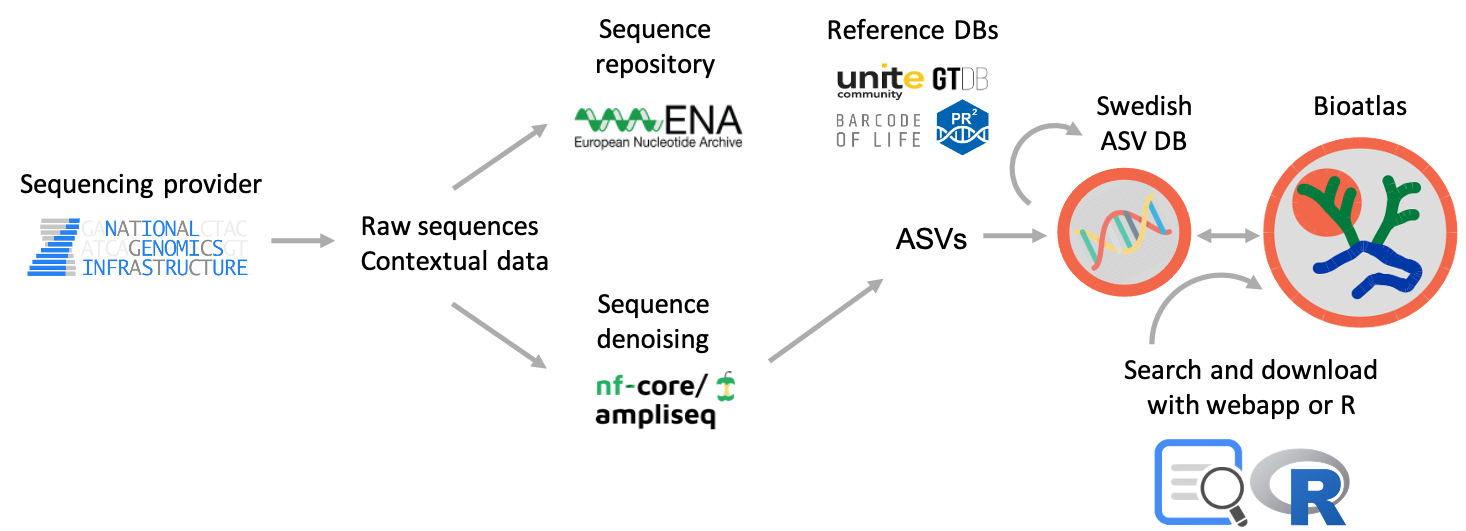
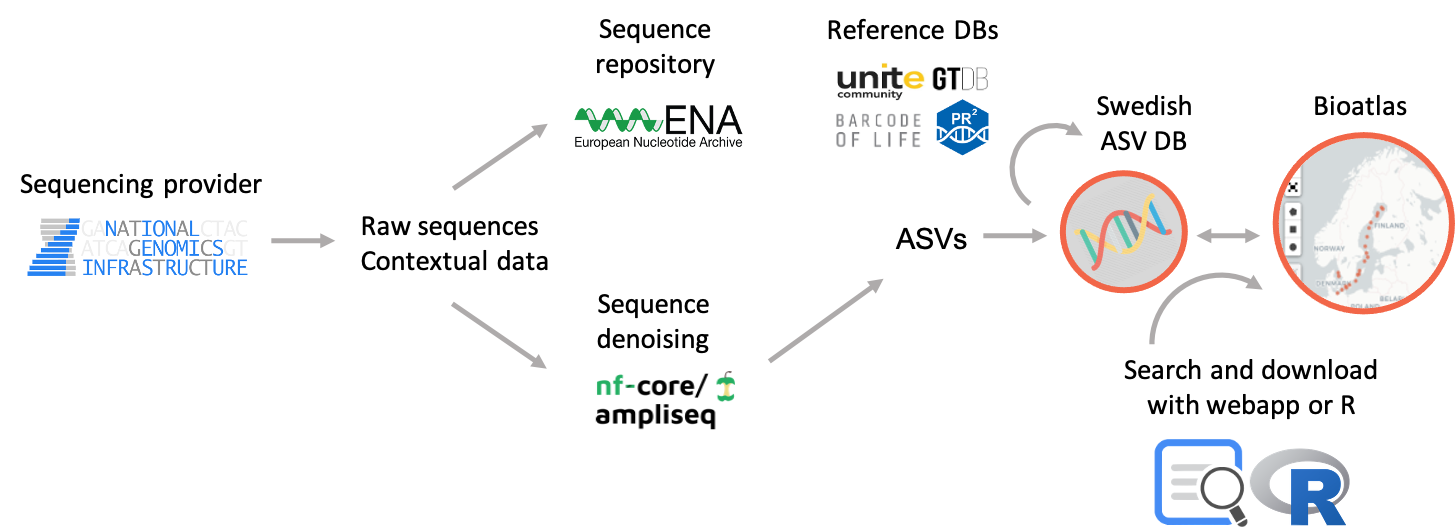
Replace data flow graphic and make responsive

diff --git a/molmod/templates/about.html b/molmod/templates/about.html
@@ -24,10 +24,9 @@ About
             (developed in the nf-core collaboration)
             for denoising and taxonomic annotation of metabarcoding data.
         </p>
-        <p class="blocktext">
+        <p>
             <br>
-            <img src="{{url_for('static', filename='img/metabarcoding-sbdi.png')}}"
-                 width=85% />
+            <img src="{{url_for('static', filename='img/metabarcoding-sbdi.png')}}" class="img-fluid" alt="Flow of metabarcoding data in SBDI" />
         <p>
             <b>Metabarcoding data in SBDI</b>: A sequencing service provider, such as NGI, delivers sequencing data
             to the user. The user submits raw sequencing data and contextual data to ENA
